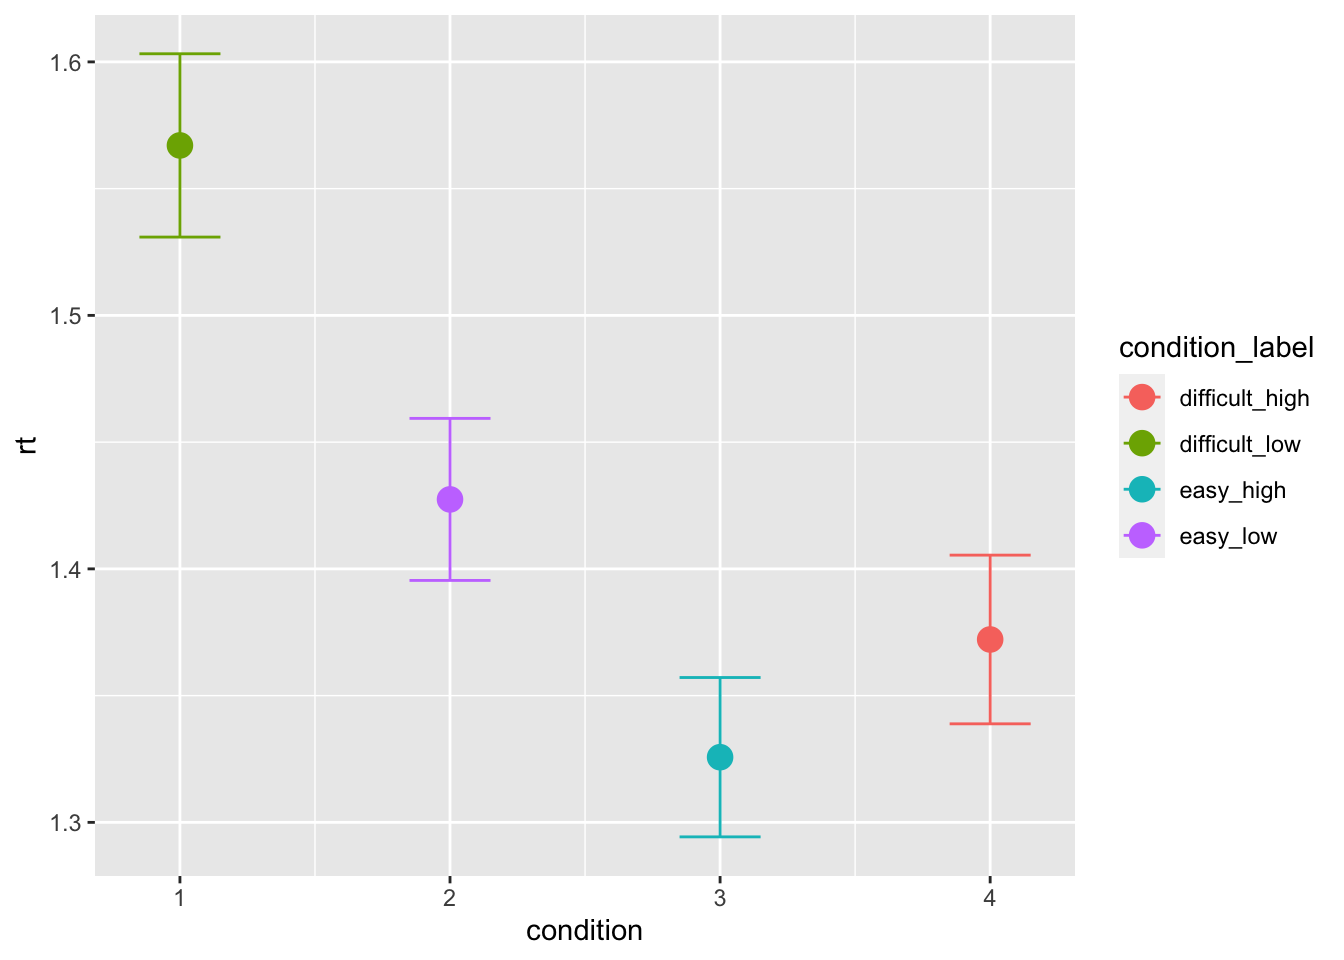
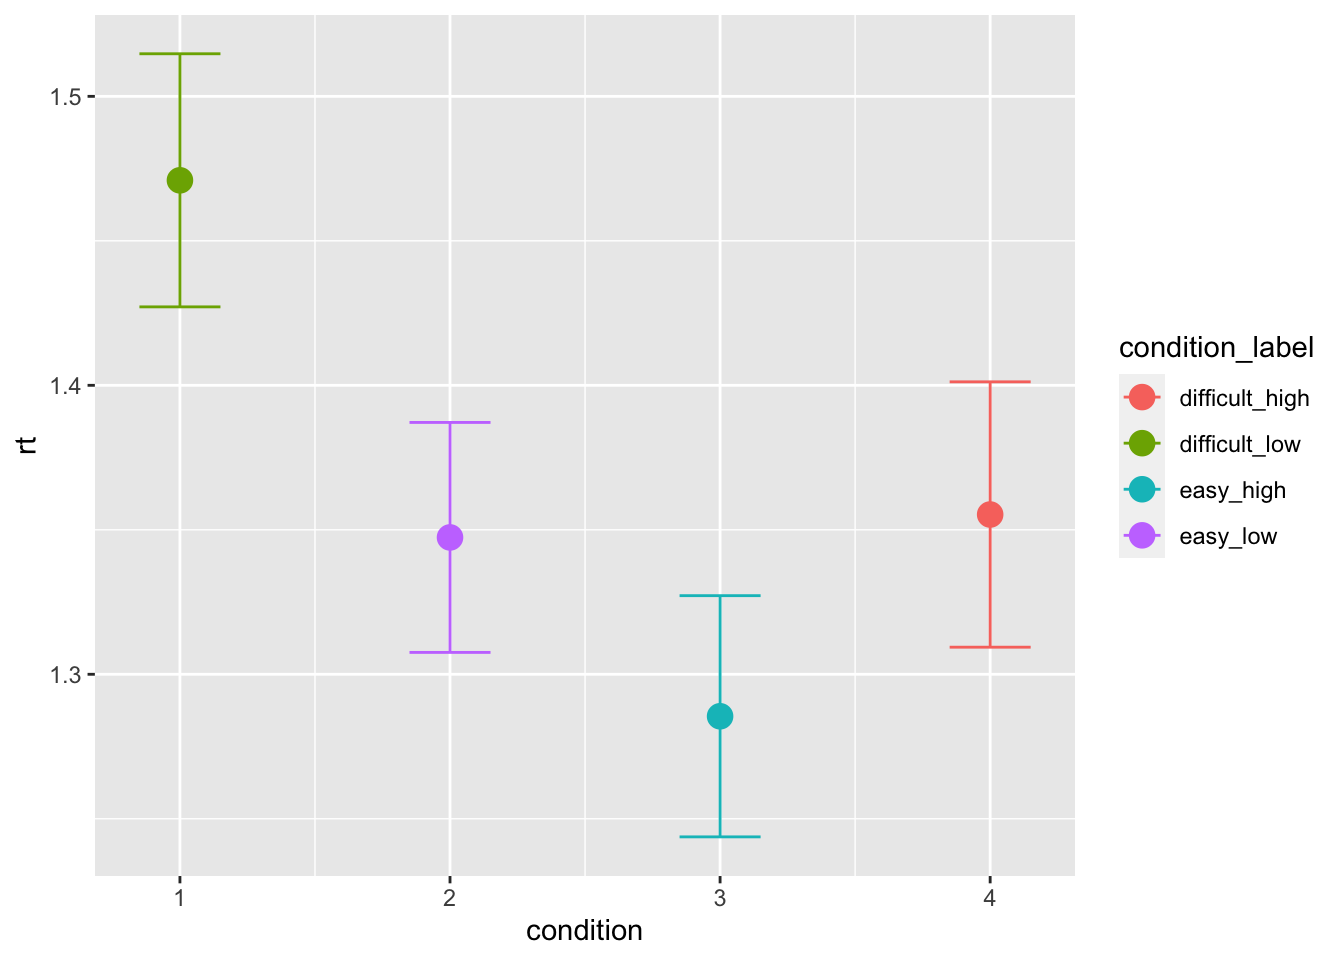
ran ddm hier cond model

diff --git a/docs/Fontanesi2019.html b/docs/Fontanesi2019.html
@@ -285,7 +285,7 @@ library(bayesplot)</code></pre>
 <p>First, we can load the data of <a href="https://link.springer.com/article/10.3758/s13423-018-1554-2">our study from 2019</a>:</p>
 <pre class="r"><code>data &lt;- read.csv(&#39;data/fontanesi2019.csv&#39;)
 data &lt;- select(data, -X) # drop pandas index column
-data &lt;- data[data$participant &lt; 11,] # select only 10 participants
+data &lt;- data[data$participant &lt; 6,] # select only 5 participants otherwise it takes too long
 # add accuracy for stan data
 data$accuracy_recoded &lt;- data$accuracy
 data[data$accuracy==0, &quot;accuracy_recoded&quot;] &lt;- -1
@@ -311,7 +311,7 @@ data[(data$inc_option == 3)&amp;(data$cor_option == 4),&quot;condition&quot;] &l
 <p><img src="Fontanesi2019_files/figure-html/unnamed-chunk-3-2.png" width="672" /></p>
 <p>Now we can prepare the data for <code>stan</code>. Note that this is a bit different for hierarchical models, and also when we want to fit separate parameters per condition:</p>
 <pre class="r"><code>unique(data$participant)</code></pre>
-<pre><code>##  [1]  1  2  3  4  5  6  7  8  9 10</code></pre>
+<pre><code>## [1] 1 2 3 4 5</code></pre>
 <pre class="r"><code>sim_data_for_stan &lt;- list(
   N = dim(data)[1],
   L = length(unique(data$participant)),
@@ -322,6 +322,95 @@ data[(data$inc_option == 3)&amp;(data$cor_option == 4),&quot;condition&quot;] &l
   rt = data$rt,
   starting_point = 0.5
 )</code></pre>
+<pre class="r"><code>fit1 &lt;- stan(
+  file = &quot;stan_models/hierDDM_cond.stan&quot;,            # Stan program
+  data = sim_data_for_stan,                          # named list of data
+  chains = 2,                                        # number of Markov chains
+  warmup = 1000,                                     # number of warmup iterations per chain
+  iter = 3000,                                       # total number of iterations per chain
+  cores = 2                                          # number of cores (could use one per chain)
+)</code></pre>
+<pre><code>## Running /Library/Frameworks/R.framework/Resources/bin/R CMD SHLIB foo.c
+## clang -mmacosx-version-min=10.13 -I&quot;/Library/Frameworks/R.framework/Resources/include&quot; -DNDEBUG   -I&quot;/Library/Frameworks/R.framework/Versions/4.0/Resources/library/Rcpp/include/&quot;  -I&quot;/Library/Frameworks/R.framework/Versions/4.0/Resources/library/RcppEigen/include/&quot;  -I&quot;/Library/Frameworks/R.framework/Versions/4.0/Resources/library/RcppEigen/include/unsupported&quot;  -I&quot;/Library/Frameworks/R.framework/Versions/4.0/Resources/library/BH/include&quot; -I&quot;/Library/Frameworks/R.framework/Versions/4.0/Resources/library/StanHeaders/include/src/&quot;  -I&quot;/Library/Frameworks/R.framework/Versions/4.0/Resources/library/StanHeaders/include/&quot;  -I&quot;/Library/Frameworks/R.framework/Versions/4.0/Resources/library/RcppParallel/include/&quot;  -I&quot;/Library/Frameworks/R.framework/Versions/4.0/Resources/library/rstan/include&quot; -DEIGEN_NO_DEBUG  -DBOOST_DISABLE_ASSERTS  -DBOOST_PENDING_INTEGER_LOG2_HPP  -DSTAN_THREADS  -DBOOST_NO_AUTO_PTR  -include &#39;/Library/Frameworks/R.framework/Versions/4.0/Resources/library/StanHeaders/include/stan/math/prim/mat/fun/Eigen.hpp&#39;  -D_REENTRANT -DRCPP_PARALLEL_USE_TBB=1   -I/usr/local/include   -fPIC  -Wall -g -O2  -c foo.c -o foo.o
+## In file included from &lt;built-in&gt;:1:
+## In file included from /Library/Frameworks/R.framework/Versions/4.0/Resources/library/StanHeaders/include/stan/math/prim/mat/fun/Eigen.hpp:13:
+## In file included from /Library/Frameworks/R.framework/Versions/4.0/Resources/library/RcppEigen/include/Eigen/Dense:1:
+## In file included from /Library/Frameworks/R.framework/Versions/4.0/Resources/library/RcppEigen/include/Eigen/Core:88:
+## /Library/Frameworks/R.framework/Versions/4.0/Resources/library/RcppEigen/include/Eigen/src/Core/util/Macros.h:613:1: error: unknown type name &#39;namespace&#39;
+## namespace Eigen {
+## ^
+## /Library/Frameworks/R.framework/Versions/4.0/Resources/library/RcppEigen/include/Eigen/src/Core/util/Macros.h:613:16: error: expected &#39;;&#39; after top level declarator
+## namespace Eigen {
+##                ^
+##                ;
+## In file included from &lt;built-in&gt;:1:
+## In file included from /Library/Frameworks/R.framework/Versions/4.0/Resources/library/StanHeaders/include/stan/math/prim/mat/fun/Eigen.hpp:13:
+## In file included from /Library/Frameworks/R.framework/Versions/4.0/Resources/library/RcppEigen/include/Eigen/Dense:1:
+## /Library/Frameworks/R.framework/Versions/4.0/Resources/library/RcppEigen/include/Eigen/Core:96:10: fatal error: &#39;complex&#39; file not found
+## #include &lt;complex&gt;
+##          ^~~~~~~~~
+## 3 errors generated.
+## make: *** [foo.o] Error 1</code></pre>
+<p>We can summarize the group parameters:</p>
+<pre class="r"><code>print(fit1, pars = c(&quot;mu_drift[1]&quot;, &quot;mu_drift[2]&quot;, &quot;mu_drift[3]&quot;, &quot;mu_drift[4]&quot;,
+                     &quot;sd_drift[1]&quot;, &quot;sd_drift[2]&quot;, &quot;sd_drift[3]&quot;, &quot;sd_drift[4]&quot;,
+                     &quot;mu_threshold[1]&quot;, &quot;mu_threshold[2]&quot;, &quot;mu_threshold[3]&quot;, &quot;mu_threshold[4]&quot;,
+                     &quot;sd_threshold[1]&quot;, &quot;sd_threshold[2]&quot;, &quot;sd_threshold[3]&quot;, &quot;sd_threshold[4]&quot;,
+                     &quot;mu_ndt&quot;, &quot;sd_ndt&quot;))</code></pre>
+<pre><code>## Inference for Stan model: hierDDM_cond.
+## 2 chains, each with iter=3000; warmup=1000; thin=1; 
+## post-warmup draws per chain=2000, total post-warmup draws=4000.
+## 
+##                 mean se_mean   sd  2.5%  25%  50%  75% 97.5% n_eff Rhat
+## mu_drift[1]     0.69    0.01 0.38 -0.11 0.49 0.69 0.90  1.47  1440 1.00
+## mu_drift[2]     1.44    0.01 0.28  0.94 1.31 1.44 1.58  1.97  1338 1.00
+## mu_drift[3]     1.16    0.01 0.30  0.53 1.01 1.17 1.32  1.79  1804 1.00
+## mu_drift[4]     0.56    0.00 0.17  0.19 0.47 0.56 0.65  0.90  1628 1.00
+## sd_drift[1]     0.78    0.01 0.44  0.31 0.50 0.66 0.93  1.97  1279 1.00
+## sd_drift[2]     0.49    0.01 0.37  0.09 0.27 0.40 0.60  1.41   971 1.00
+## sd_drift[3]     0.61    0.01 0.38  0.19 0.37 0.52 0.73  1.56  1430 1.00
+## sd_drift[4]     0.28    0.01 0.24  0.02 0.12 0.22 0.36  0.86  1121 1.00
+## mu_threshold[1] 1.78    0.00 0.10  1.61 1.73 1.78 1.84  1.96  2151 1.00
+## mu_threshold[2] 1.81    0.01 0.19  1.44 1.72 1.81 1.91  2.18  1321 1.00
+## mu_threshold[3] 1.51    0.01 0.44  0.62 1.29 1.51 1.73  2.40  1272 1.00
+## mu_threshold[4] 1.42    0.01 0.30  0.86 1.29 1.42 1.55  1.96   751 1.00
+## sd_threshold[1] 0.11    0.00 0.13  0.00 0.04 0.08 0.14  0.41  1661 1.00
+## sd_threshold[2] 0.31    0.01 0.26  0.02 0.15 0.26 0.40  0.93  1116 1.00
+## sd_threshold[3] 0.85    0.01 0.53  0.32 0.53 0.71 0.98  2.23  1346 1.00
+## sd_threshold[4] 0.50    0.01 0.36  0.18 0.30 0.41 0.58  1.37   829 1.00
+## mu_ndt          0.13    0.00 0.12 -0.11 0.06 0.13 0.19  0.37  1143 1.00
+## sd_ndt          0.25    0.00 0.12  0.12 0.17 0.22 0.30  0.57  1061 1.01
+## 
+## Samples were drawn using NUTS(diag_e) at Thu Sep  9 13:34:49 2021.
+## For each parameter, n_eff is a crude measure of effective sample size,
+## and Rhat is the potential scale reduction factor on split chains (at 
+## convergence, Rhat=1).</code></pre>
+<p>Compare the group mean of the drift-rates across conditions:</p>
+<pre class="r"><code>posterior &lt;- as.matrix(fit1)
+
+plot_title &lt;- ggtitle(&quot;Posterior distributions mu drift-rate per condition&quot;,
+                      &quot;with medians and 95% intervals&quot;)
+mcmc_areas(posterior,
+           pars = c(&quot;mu_drift[1]&quot;, &quot;mu_drift[2]&quot;, &quot;mu_drift[3]&quot;, &quot;mu_drift[4]&quot;),
+           prob = 0.95) + plot_title</code></pre>
+<p><img src="Fontanesi2019_files/figure-html/unnamed-chunk-7-1.png" width="672" /></p>
+<p>As well as the thresholds:</p>
+<pre class="r"><code>plot_title &lt;- ggtitle(&quot;Posterior distributions mu threshold per condition&quot;,
+                      &quot;with medians and 95% intervals&quot;)
+
+mcmc_areas(posterior,
+           pars = c(&quot;mu_threshold[1]&quot;, &quot;mu_threshold[2]&quot;, &quot;mu_threshold[3]&quot;, &quot;mu_threshold[4]&quot;),
+           prob = 0.95) + plot_title</code></pre>
+<p><img src="Fontanesi2019_files/figure-html/unnamed-chunk-8-1.png" width="672" /></p>
+<p>And for example we can compare participants’ NDT parameters:</p>
+<pre class="r"><code>plot_title &lt;- ggtitle(&quot;Posterior distributions individual NDT parameters&quot;,
+                      &quot;with medians and 95% intervals&quot;)
+
+mcmc_areas(posterior,
+           pars = c(&quot;ndt_sbj[1]&quot;, &quot;ndt_sbj[2]&quot;, &quot;ndt_sbj[3]&quot;, &quot;ndt_sbj[4]&quot;, &quot;ndt_sbj[5]&quot;),
+           prob = 0.95) + plot_title</code></pre>
+<p><img src="Fontanesi2019_files/figure-html/unnamed-chunk-9-1.png" width="672" /></p>
+<p>As we expected, the drift-rates for the easier conditions tend to be higher, and the thresholds for the high-value pairs tends to be lower.</p>
 
 
 
